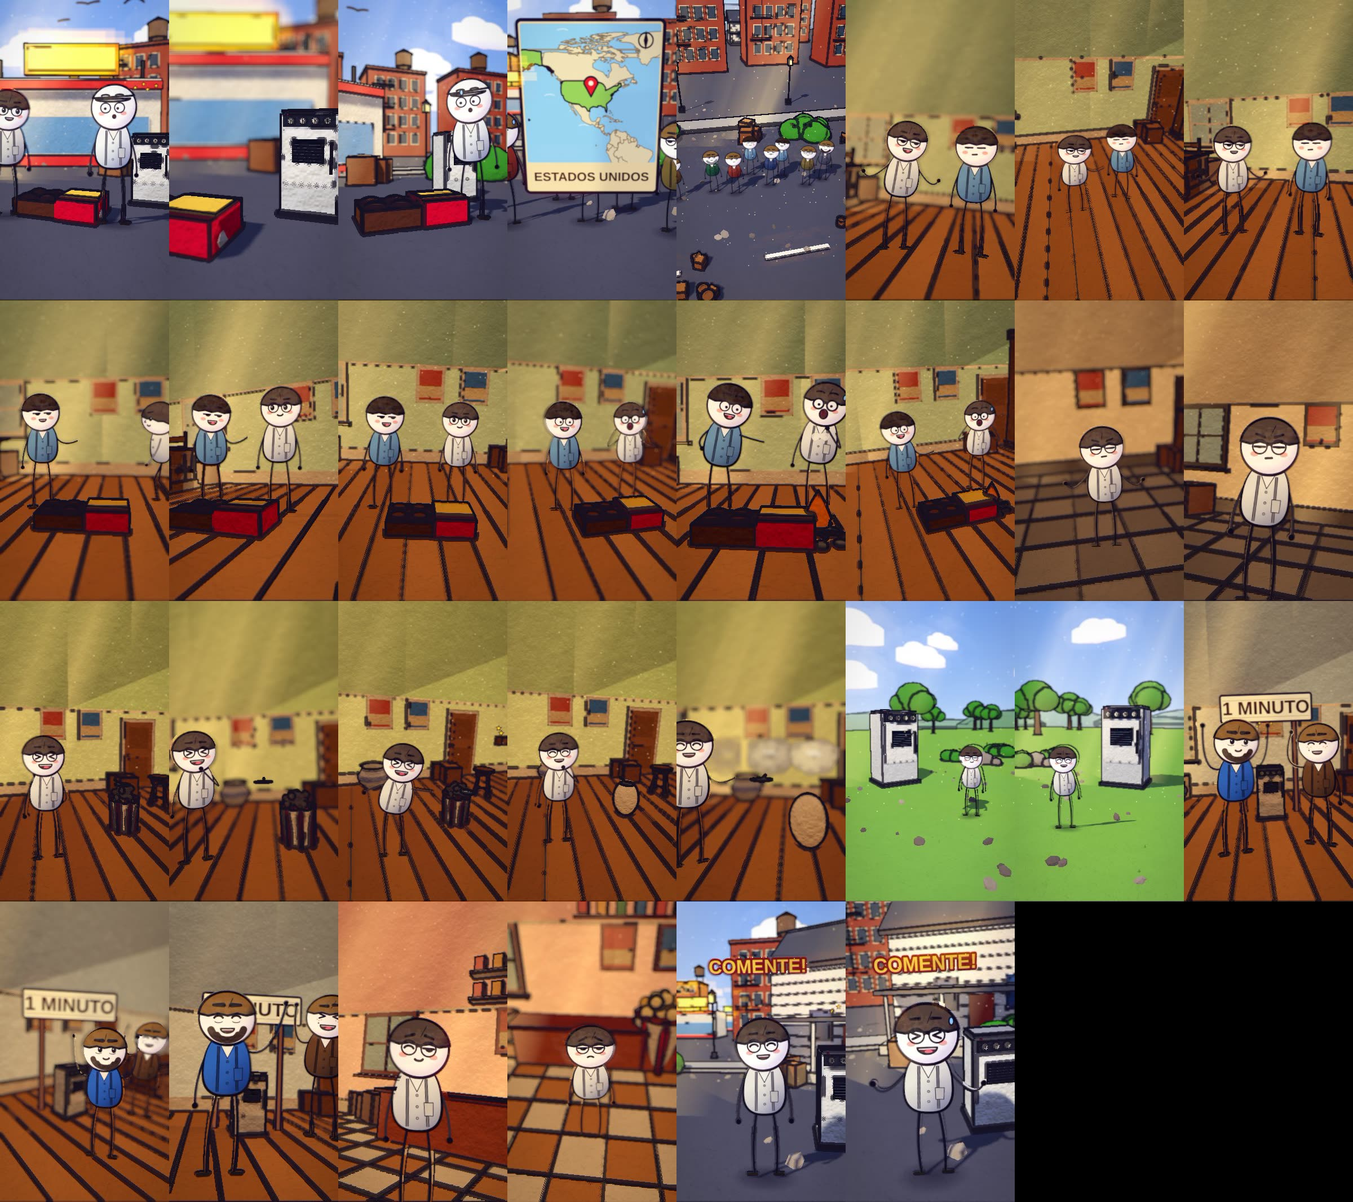
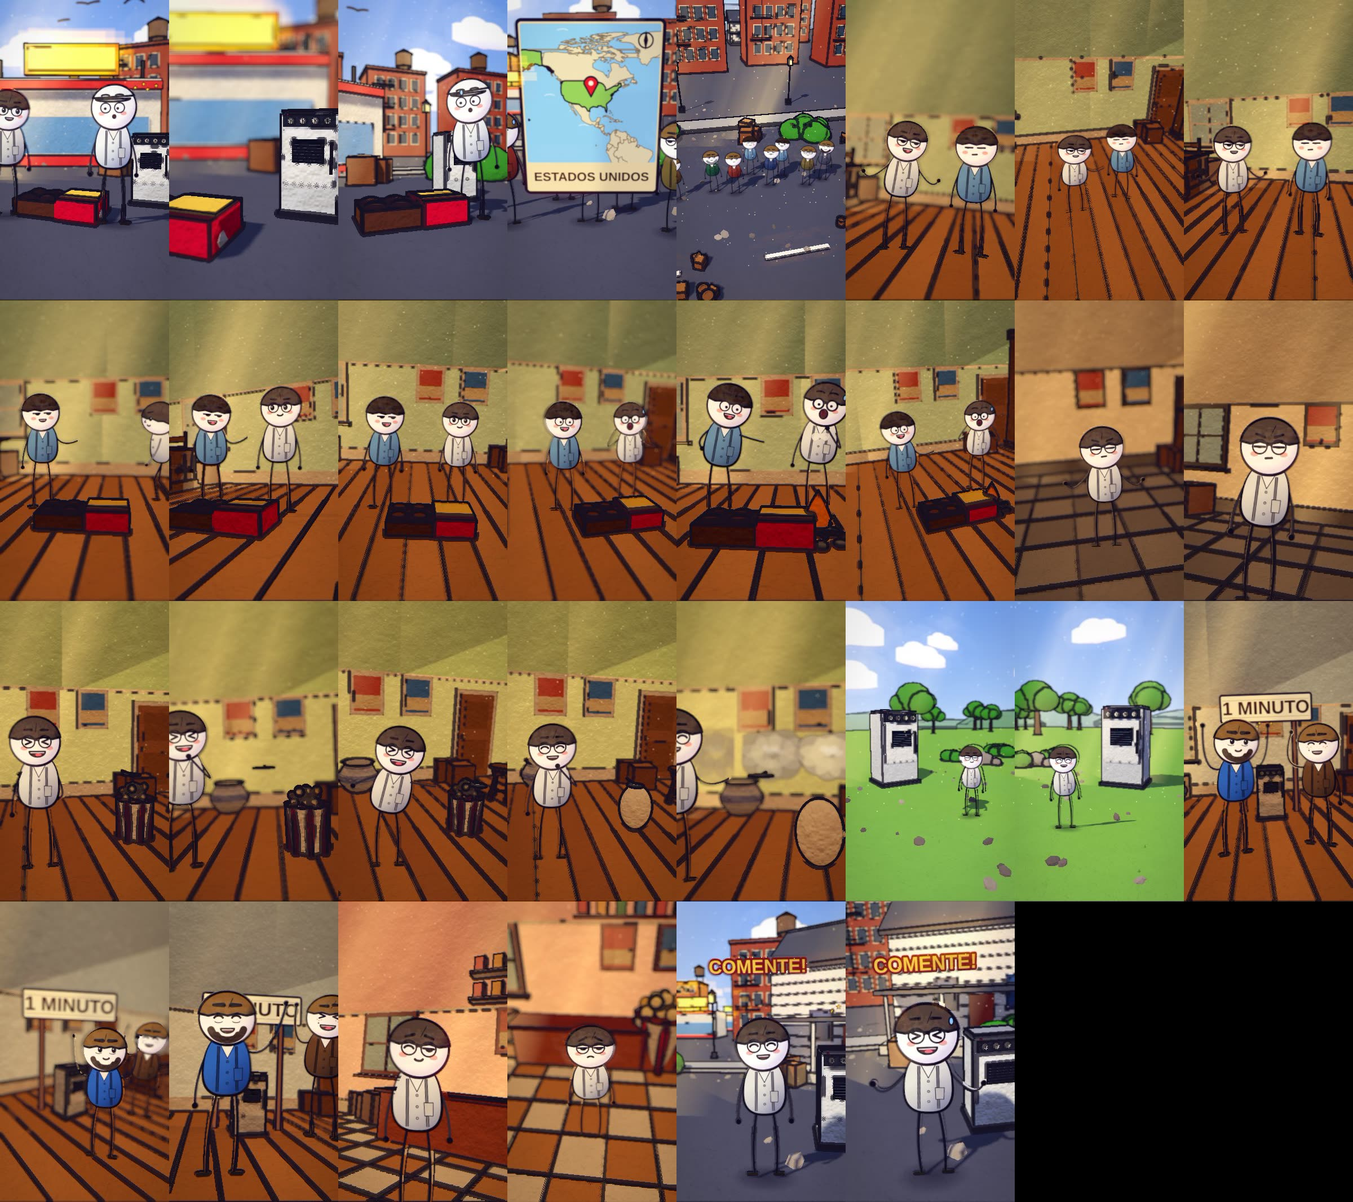
microondas b7: camera mais aberta
Claude-Session: https://claude.ai/code/session_01HE8Dy2XpEMgdYAHCmWZFay

Changed region(s): [[0.0, 0.5263, 0.625, 0.743]]

diff --git a/ferramenta-shorts/web/story.js b/ferramenta-shorts/web/story.js
@@ -40,8 +40,8 @@ const SPEC = {
     S('b3', A[3], A[4] - 1, X_hall, "study", { h: 1.5, d0: 10.0, d1: 9.5, az0: 6, az1: 12, cx: 0.1, cz: 0.5, vary: false, hero: { hero: 'any', frame: 'medium', minH: 0.07, main: 2 }, trans: 'dissolve', actors: [_MA(pp(X_hall, "ENG", 0, -1.0, 1.3, "neutral", { pose: 'talk', inter: { k: 'step', a: Math.round(A[3] + (A[4] - 1 - (A[3])) * 0.12), b: Math.round(A[3] + (A[4] - 1 - (A[3])) * 0.82), dir: 1, n: 2, ph: 0 } }), { gests: [[WS(51) - 8, WS(51) + 46, 'point']] }), { outfit: "SPE", v: 0, at: [X_hall + 3.4, -0.6], move: [[X_hall + 1.0, 1.0], A[3], Math.round(A[3] + Math.min(48, (A[4] - 1 - (A[3])) * 0.3)), 'lin'], arrive: true, walk: "stroll", look: -0.4, expr: "smile" }], props: [{ asset: "kit/room_eua_wood", at: [X_hall, 0], s: 1, drop: false }, { asset: "mk/Bookcase_2", at: [X_hall + 7.4, -3.4], s: 2.4, drop: false }, { asset: "mk/Table_Large", at: [X_hall + -6.6, -1.6], s: 2.2, drop: false }, { asset: "mk/Chair_1", at: [X_hall + -4.4, -1.2], s: 2.2, drop: false }, { asset: "mk/Chest_Wood", at: [X_hall + 6.9, 0.6], s: 2.2, drop: false }, { asset: "kit/chocolate", at: [X_hall + 0.2, 2.2], s: 1.5, fixo: true, drop: false }], fx: [{ k: "dust", a: WS(51), b: WS(51) + 28, at: [X_hall + -0.1, DK + 0.12, 1.7], s: 0.7 }] }),
     S('b4', A[4], A[5] - 1, X_hall, "study", { h: 1.5, d0: 10.0, d1: 9.5, az0: -6, az1: 2, cx: 0.1, cz: 0.5, vary: false, hero: { hero: 'any', frame: 'medium', minH: 0.07, main: 2 }, trans: 'dissolve', actors: [_MA(pp(X_hall, "ENG", 0, -1.0, 1.3, "surprised", { pose: 'talk', inter: { k: 'lean', a: Math.round(A[4] + (A[5] - 1 - (A[4])) * 0.12), b: Math.round(A[4] + (A[5] - 1 - (A[4])) * 0.82), dir: 1, n: 2, ph: 0 } }), { gests: [[WS(67) - 8, WS(67) + 46, 'reach']] }), pp(X_hall, "SPE", 0, 1.0, 1.0, "shock", { pose: 'react', inter: { k: 'recoil', a: Math.round(A[4] + (A[5] - 1 - (A[4])) * 0.2), b: Math.round(A[4] + (A[5] - 1 - (A[4])) * 0.9), dir: -1, n: 2, ph: 3.14 } })], props: [{ asset: "kit/room_eua_wood", at: [X_hall, 0], s: 1, drop: false }, { asset: "mk/Bookcase_2", at: [X_hall + 7.4, -3.4], s: 2.4, drop: false }, { asset: "mk/Table_Large", at: [X_hall + -6.6, -1.6], s: 2.2, drop: false }, { asset: "mk/Chair_1", at: [X_hall + -4.4, -1.2], s: 2.2, drop: false }, { asset: "mk/Chest_Wood", at: [X_hall + 6.9, 0.6], s: 2.2, drop: false }, { asset: "kit/chocolate", at: [X_hall + 0.2, 2.2], s: 1.5, fixo: true, drop: false }, { asset: 'kit/campfire', a: WS(67) - 10, b: A[5] - 1, at: [X_hall + 1.3, 2.2], s: 0.8, drop: false }], fx: [{ k: 'puff', a: WS(67) + 0, b: WS(67) + 24, at: [X_hall + 1.3, DK + 1.6, 2.4], s: 0.7 }, { k: 'puff', a: WS(67) + 10, b: WS(67) + 34, at: [X_hall + 1.3, DK + 1.6, 2.4], s: 0.7 }, { k: 'puff', a: WS(67) + 20, b: WS(67) + 44, at: [X_hall + 1.3, DK + 1.6, 2.4], s: 0.7 }, { k: 'puff', a: WS(67) + 30, b: WS(67) + 54, at: [X_hall + 1.3, DK + 1.6, 2.4], s: 0.7 }] }),
     S('b5', A[5], A[6] - 1, X_hall, "study", { h: 2.4, d0: 6.4, d1: 5.6, az0: 10, az1: 4, vary: false, hero: { hero: 'any', frame: 'medium', minH: 0.07, main: 1 }, trans: 'dissolve', actors: [_MA(pp(X_hall, "SPE", 0, 0.0, 1.3, "suspicious", { pose: 'talk' }), { gests: [[WS(76) - 8, WS(76) + 46, 'point']] })], props: [{ asset: "kit/room_europa_stone", at: [X_hall, 0], s: 1, drop: false }, { asset: "mk/Cabinet", at: [X_hall + -7.2, -3.3], s: 2.3, drop: false }, { asset: "mk/Bed_Twin1", at: [X_hall + 7.0, -2.4], s: 2.1, drop: false }, { asset: "mk/Nightstand_Shelf", at: [X_hall + 4.6, -3.2], s: 2.2, drop: false }, { asset: "mk/Stool", at: [X_hall + -4.8, -2.8], s: 2.2, drop: false }, { asset: "mk/Crate_Metal", at: [X_hall + -7.4, 0.8], s: 2.0, drop: false }] }),
-    S('b6', A[6], A[7] - 1, X_hall, "study", { h: 2.5, d0: 7.2, d1: 6.77, fov: 50.5, az0: -13, az1: -7, cx: 1.2, cz: 0.1, punches: [{ f: WS(95), amt: 0.11, dur: 20 }], vary: false, hero: { hero: 'any', frame: 'medium', minH: 0.07, main: 1 }, trans: 'dissolve', actors: [_MA(pp(X_hall, "SPE", 0, 0.0, 1.3, "laugh", { pose: 'talk' }), { gests: [[WS(86) - 8, Math.max(WS(86) + 14, WS(95) - 5), 'think'], [WS(95) - 8, WS(95) + 46, 'throw']] })], props: [{ asset: "kit/room_verde_wood", at: [X_hall, 0], s: 1, drop: false }, { asset: "mk/Workbench_Drawers", at: [X_hall + 7.0, -3.0], s: 2.2, drop: false }, { asset: "mk/Shelf_Small_Bottles", at: [X_hall + -6.8, -3.4], s: 2.4, drop: false }, { asset: "mk/Stool", at: [X_hall + 4.8, -1.4], s: 2.2, drop: false }, { asset: "mk/Crate_Wooden", at: [X_hall + -7.0, 0.4], s: 2.0, drop: false }, { asset: "mk/Vase_2", at: [X_hall + 0.0, -3.6], s: 2.2, drop: false }, { asset: "kit/popcorn", at: [X_hall + 2.4, 0.2], s: 1.2, fixo: true, drop: false }, { asset: "kit/lupa", a: Math.max(A[6] + 4, WS(86) - 30), b: A[7] - 1, at: [X_hall + 1.55, 2.0], y: DK + 1.9, s: 0.4, drop: false }], fx: [{ k: "stars", a: A[6] + 40, b: A[6] + 66, at: [X_hall, DK + 0.5, 1.2], s: 1.1 }, { k: 'burst', a: A[6] + 60, at: [X_hall + 0.0, DK + 1.8, 3.2], s: 1.2 }, { k: 'burst', a: WS(95) + 2, b: WS(95) + 20, at: [X_hall + 2.3, DK + 1.6, 2.5], s: 1.1 }, { k: 'stars', a: WS(95) + 4, b: WS(95) + 30, at: [X_hall + 2.3, DK + 1.8, 2.5], s: 0.8 }] }),
-    S('b7', A[7], A[8] - 1, X_hall, "study", { h: 2.3, d0: 7.2, d1: 6.77, fov: 50.5, az0: -2, az1: 3, cx: 1.2, cz: 0.1, punches: [{ f: WS(105), amt: 0.16, dur: 20 }], vary: false, hero: { hero: 'any', frame: 'medium', minH: 0.07, main: 1 }, trans: 'dissolve', actors: [_MA(pp(X_hall, "SPE", 0, 0.0, 1.3, "grin", { pose: 'talk' }), { gests: [[WS(99) - 8, Math.max(WS(99) + 14, WS(105) - 5), 'think']] })], props: [{ asset: "kit/room_verde_wood", at: [X_hall, 0], s: 1, drop: false }, { asset: "mk/Workbench_Drawers", at: [X_hall + 7.0, -3.0], s: 2.2, drop: false }, { asset: "mk/Shelf_Small_Bottles", at: [X_hall + -6.8, -3.4], s: 2.4, drop: false }, { asset: "mk/Stool", at: [X_hall + 4.8, -1.4], s: 2.2, drop: false }, { asset: "mk/Crate_Wooden", at: [X_hall + -7.0, 0.4], s: 2.0, drop: false }, { asset: "mk/Vase_2", at: [X_hall + 0.0, -3.6], s: 2.2, drop: false }, { asset: "kit/egg", at: [X_hall + 2.4, 0.2], s: 1.2, fixo: true, drop: false }, { asset: "kit/lupa", a: Math.max(A[7] + 4, WS(99) - 30), b: A[8] - 1, at: [X_hall + 1.55, 2.0], y: DK + 1.9, s: 0.4, drop: false }], fx: [{ k: 'burst', a: A[7] + 50, at: [X_hall + 0.0, DK + 1.8, 3.2], s: 1.2 }, { k: 'burst', a: WS(105), b: WS(105) + 22, at: [X_hall + 0.0, DK + 1.8, 3.0], s: 1.2 }, { k: 'dust', a: WS(105) + 0, b: WS(105) + 30, at: [X_hall + -3, DK + 0.3, -4], s: 1.6 }, { k: 'dust', a: WS(105) + 6, b: WS(105) + 36, at: [X_hall + -1, DK + 0.3, -4], s: 1.6 }, { k: 'dust', a: WS(105) + 12, b: WS(105) + 42, at: [X_hall + 1, DK + 0.3, -4], s: 1.6 }, { k: 'dust', a: WS(105) + 18, b: WS(105) + 48, at: [X_hall + 3, DK + 0.3, -4], s: 1.6 }] }),
+    S('b6', A[6], A[7] - 1, X_hall, "study", { h: 2.2, d0: 8.6, d1: 8.2, az0: -13, az1: -7, cx: 1.2, cz: 0.1, punches: [{ f: WS(95), amt: 0.11, dur: 20 }], vary: false, hero: { hero: 'any', frame: 'medium', minH: 0.07, main: 1 }, trans: 'dissolve', actors: [_MA(pp(X_hall, "SPE", 0, 0.0, 1.3, "laugh", { pose: 'talk' }), { gests: [[WS(86) - 8, Math.max(WS(86) + 14, WS(95) - 5), 'think'], [WS(95) - 8, WS(95) + 46, 'throw']] })], props: [{ asset: "kit/room_verde_wood", at: [X_hall, 0], s: 1, drop: false }, { asset: "mk/Workbench_Drawers", at: [X_hall + 7.0, -3.0], s: 2.2, drop: false }, { asset: "mk/Shelf_Small_Bottles", at: [X_hall + -6.8, -3.4], s: 2.4, drop: false }, { asset: "mk/Stool", at: [X_hall + 4.8, -1.4], s: 2.2, drop: false }, { asset: "mk/Crate_Wooden", at: [X_hall + -7.0, 0.4], s: 2.0, drop: false }, { asset: "mk/Vase_2", at: [X_hall + 0.0, -3.6], s: 2.2, drop: false }, { asset: "kit/popcorn", at: [X_hall + 2.4, 0.2], s: 1.2, fixo: true, drop: false }, { asset: "kit/lupa", a: Math.max(A[6] + 4, WS(86) - 30), b: A[7] - 1, at: [X_hall + 1.55, 2.0], y: DK + 1.9, s: 0.4, drop: false }], fx: [{ k: "stars", a: A[6] + 40, b: A[6] + 66, at: [X_hall, DK + 0.5, 1.2], s: 1.1 }, { k: 'burst', a: A[6] + 60, at: [X_hall + 0.0, DK + 1.8, 3.2], s: 1.2 }, { k: 'burst', a: WS(95) + 2, b: WS(95) + 20, at: [X_hall + 2.3, DK + 1.6, 2.5], s: 1.1 }, { k: 'stars', a: WS(95) + 4, b: WS(95) + 30, at: [X_hall + 2.3, DK + 1.8, 2.5], s: 0.8 }] }),
+    S('b7', A[7], A[8] - 1, X_hall, "study", { h: 2.2, d0: 8.6, d1: 8.2, az0: -2, az1: 3, cx: 1.2, cz: 0.1, punches: [{ f: WS(105), amt: 0.16, dur: 20 }], vary: false, hero: { hero: 'any', frame: 'medium', minH: 0.07, main: 1 }, trans: 'dissolve', actors: [_MA(pp(X_hall, "SPE", 0, 0.0, 1.3, "grin", { pose: 'talk' }), { gests: [[WS(99) - 8, Math.max(WS(99) + 14, WS(105) - 5), 'think']] })], props: [{ asset: "kit/room_verde_wood", at: [X_hall, 0], s: 1, drop: false }, { asset: "mk/Workbench_Drawers", at: [X_hall + 7.0, -3.0], s: 2.2, drop: false }, { asset: "mk/Shelf_Small_Bottles", at: [X_hall + -6.8, -3.4], s: 2.4, drop: false }, { asset: "mk/Stool", at: [X_hall + 4.8, -1.4], s: 2.2, drop: false }, { asset: "mk/Crate_Wooden", at: [X_hall + -7.0, 0.4], s: 2.0, drop: false }, { asset: "mk/Vase_2", at: [X_hall + 0.0, -3.6], s: 2.2, drop: false }, { asset: "kit/egg", at: [X_hall + 2.4, 0.2], s: 1.2, fixo: true, drop: false }, { asset: "kit/lupa", a: Math.max(A[7] + 4, WS(99) - 30), b: A[8] - 1, at: [X_hall + 1.55, 2.0], y: DK + 1.9, s: 0.4, drop: false }], fx: [{ k: 'burst', a: A[7] + 50, at: [X_hall + 0.0, DK + 1.8, 3.2], s: 1.2 }, { k: 'burst', a: WS(105), b: WS(105) + 22, at: [X_hall + 0.0, DK + 1.8, 3.0], s: 1.2 }, { k: 'dust', a: WS(105) + 0, b: WS(105) + 30, at: [X_hall + -3, DK + 0.3, -4], s: 1.6 }, { k: 'dust', a: WS(105) + 6, b: WS(105) + 36, at: [X_hall + -1, DK + 0.3, -4], s: 1.6 }, { k: 'dust', a: WS(105) + 12, b: WS(105) + 42, at: [X_hall + 1, DK + 0.3, -4], s: 1.6 }, { k: 'dust', a: WS(105) + 18, b: WS(105) + 48, at: [X_hall + 3, DK + 0.3, -4], s: 1.6 }] }),
     { ...S('b8', A[8], A[9] - 1, X_loc_campo, "day", { h: 2.4, d0: 17.5, d1: 16.7, el: 6, fov: 46, az0: -38, az1: 32, cx: 0.0, cz: -3.6, hero: { hero: 'none', wide: true }, vary: false, nocut: true, trans: 'dissolve', actors: [pp(X_loc_campo, "SPE", 0, 0.0, -0.4, "smile")], props: [{ asset: "kit/radarange", at: [X_loc_campo + 0.0, -8.0], s: 2.6, fixo: true, drop: false }], fx: [{ k: "contador", a: WS(128, -3), b: A[9] - 1, de: 0, para: 300, un: " kg", titulo: "PESO DO PRIMEIRO FORNO", dur: 39, dec: 0, up: 0.6 }, { k: 'birds', a: A[8], b: A[9] - 1, at: [X_loc_campo, DK + 7.5, -30], n: 6, dir: 1, off: 8 }] }), nocut: true },
     S('b9', A[9], A[10] - 1, X_hall, "study", { h: 2.3, d0: 7.3, d1: 6.86, fov: 67.6, az0: -10, az1: -5, cx: 0.0, cz: -0.6, hero: { hero: 'any', frame: 'medium', minH: 0.07, main: 2 }, trans: 'dissolve', actors: [pp(X_hall, "POV", 0, -1.0, 1.3, "smile", { pose: 'cheer', inter: { k: 'hop', a: Math.round(A[9] + (A[10] - 1 - (A[9])) * 0.12), b: Math.round(A[9] + (A[10] - 1 - (A[9])) * 0.82), dir: 1, n: 2, ph: 0 } }), pp(X_hall, "POV", 1, 1.0, 1.0, "grin", { pose: 'cheer', inter: { k: 'hop', a: Math.round(A[9] + (A[10] - 1 - (A[9])) * 0.2), b: Math.round(A[9] + (A[10] - 1 - (A[9])) * 0.9), dir: -1, n: 2, ph: 3.14 } })], props: [{ asset: "kit/room_azul_wood", at: [X_hall, 0], s: 1, drop: false }, { asset: "mk/Shelf_Arch", at: [X_hall + 6.8, -3.4], s: 2.4, drop: false }, { asset: "mk/Bench", at: [X_hall + -6.4, -2.0], s: 2.2, drop: false }, { asset: "mk/Table_Large", at: [X_hall + 6.6, -0.8], s: 2.0, drop: false }, { asset: "mk/Vase_4", at: [X_hall + -7.6, 0.6], s: 2.2, drop: false }, { asset: "mk/Vase_2", at: [X_hall + -4.2, -3.0], s: 2.2, drop: false }, { asset: "kit/radarange", at: [X_hall + 0.0, -1.2], s: 1.0, fixo: true, drop: false }], fx: [{ k: 'stars', a: A[9] + 6, b: A[9] + 40, at: [X_hall + 0.0, DK + 1.6, -0.7], s: 0.8 }, { k: 'text', a: A[9], b: A[10] - 1, at: [X_hall + 0.0, DK, -1.3], text: "1 MINUTO", s: 2.625, col: '#3a2416', size: 120, board: true }, { k: "stars", a: A[9] + 30, b: A[9] + 56, at: [X_hall, DK + 0.5, 1.2], s: 1.1 }, { k: 'burst', a: A[9] + 70, at: [X_hall + -1.0, DK + 1.8, 3.2], s: 1.2 }] }),
     S('b10', A[10], A[11] - 1, X_hall, "study", { h: 2.4, d0: 6.4, d1: 5.6, az0: 6, az1: 12, hero: { hero: 'any', frame: 'medium', minH: 0.07, main: 1 }, trans: 'dissolve', actors: [pp(X_hall, "SPE", 0, 0.0, 1.3, ((f) => f >= WS(149) - 4 ? "sad" : "smug"), { pose: 'talk' })], props: [{ asset: "kit/room_rosa_shop", at: [X_hall, 0], s: 1, drop: false }, { asset: "kit/chocolate", at: [X_hall + -1.45, -2.3], s: 1.8, drop: false }, { asset: "kit/popcorn", at: [X_hall + 1.95, -2.3], s: 2.2, drop: false }], fx: [{ k: "puff", a: WS(149), b: WS(149) + 28, at: [X_hall + 0.9, DK + 0.12, 1.7], s: 0.7 }] }),

diff --git a/ferramenta-shorts/stories/microondas1945/spec.js b/ferramenta-shorts/stories/microondas1945/spec.js
@@ -20,7 +20,7 @@ const SPEC = {
     S('b4', A[4], A[5] - 1, X_hall, "study", { h: 1.5, d0: 10.0, d1: 9.5, az0: -6, az1: 2, cx: 0.1, cz: 0.5, vary: false, hero: { hero: 'any', frame: 'medium', minH: 0.07, main: 2 }, trans: 'dissolve', actors: [_MA(pp(X_hall, "ENG", 0, -1.0, 1.3, "surprised", { pose: 'talk', inter: { k: 'lean', a: Math.round(A[4] + (A[5] - 1 - (A[4])) * 0.12), b: Math.round(A[4] + (A[5] - 1 - (A[4])) * 0.82), dir: 1, n: 2, ph: 0 } }), { gests: [[WS(67) - 8, WS(67) + 46, 'reach']] }), pp(X_hall, "SPE", 0, 1.0, 1.0, "shock", { pose: 'react', inter: { k: 'recoil', a: Math.round(A[4] + (A[5] - 1 - (A[4])) * 0.2), b: Math.round(A[4] + (A[5] - 1 - (A[4])) * 0.9), dir: -1, n: 2, ph: 3.14 } })], props: [{ asset: "kit/room_eua_wood", at: [X_hall, 0], s: 1, drop: false }, { asset: "mk/Bookcase_2", at: [X_hall + 7.4, -3.4], s: 2.4, drop: false }, { asset: "mk/Table_Large", at: [X_hall + -6.6, -1.6], s: 2.2, drop: false }, { asset: "mk/Chair_1", at: [X_hall + -4.4, -1.2], s: 2.2, drop: false }, { asset: "mk/Chest_Wood", at: [X_hall + 6.9, 0.6], s: 2.2, drop: false }, { asset: "kit/chocolate", at: [X_hall + 0.2, 2.2], s: 1.5, fixo: true, drop: false }, { asset: 'kit/campfire', a: WS(67) - 10, b: A[5] - 1, at: [X_hall + 1.3, 2.2], s: 0.8, drop: false }], fx: [{ k: 'puff', a: WS(67) + 0, b: WS(67) + 24, at: [X_hall + 1.3, DK + 1.6, 2.4], s: 0.7 }, { k: 'puff', a: WS(67) + 10, b: WS(67) + 34, at: [X_hall + 1.3, DK + 1.6, 2.4], s: 0.7 }, { k: 'puff', a: WS(67) + 20, b: WS(67) + 44, at: [X_hall + 1.3, DK + 1.6, 2.4], s: 0.7 }, { k: 'puff', a: WS(67) + 30, b: WS(67) + 54, at: [X_hall + 1.3, DK + 1.6, 2.4], s: 0.7 }] }),
     S('b5', A[5], A[6] - 1, X_hall, "study", { h: 2.4, d0: 6.4, d1: 5.6, az0: 10, az1: 4, vary: false, hero: { hero: 'any', frame: 'medium', minH: 0.07, main: 1 }, trans: 'dissolve', actors: [_MA(pp(X_hall, "SPE", 0, 0.0, 1.3, "suspicious", { pose: 'talk' }), { gests: [[WS(76) - 8, WS(76) + 46, 'point']] })], props: [{ asset: "kit/room_europa_stone", at: [X_hall, 0], s: 1, drop: false }, { asset: "mk/Cabinet", at: [X_hall + -7.2, -3.3], s: 2.3, drop: false }, { asset: "mk/Bed_Twin1", at: [X_hall + 7.0, -2.4], s: 2.1, drop: false }, { asset: "mk/Nightstand_Shelf", at: [X_hall + 4.6, -3.2], s: 2.2, drop: false }, { asset: "mk/Stool", at: [X_hall + -4.8, -2.8], s: 2.2, drop: false }, { asset: "mk/Crate_Metal", at: [X_hall + -7.4, 0.8], s: 2.0, drop: false }] }),
     S('b6', A[6], A[7] - 1, X_hall, "study", { h: 2.2, d0: 8.6, d1: 8.2, az0: -13, az1: -7, cx: 1.2, cz: 0.1, punches: [{ f: WS(95), amt: 0.11, dur: 20 }], vary: false, hero: { hero: 'any', frame: 'medium', minH: 0.07, main: 1 }, trans: 'dissolve', actors: [_MA(pp(X_hall, "SPE", 0, 0.0, 1.3, "laugh", { pose: 'talk' }), { gests: [[WS(86) - 8, Math.max(WS(86) + 14, WS(95) - 5), 'think'], [WS(95) - 8, WS(95) + 46, 'throw']] })], props: [{ asset: "kit/room_verde_wood", at: [X_hall, 0], s: 1, drop: false }, { asset: "mk/Workbench_Drawers", at: [X_hall + 7.0, -3.0], s: 2.2, drop: false }, { asset: "mk/Shelf_Small_Bottles", at: [X_hall + -6.8, -3.4], s: 2.4, drop: false }, { asset: "mk/Stool", at: [X_hall + 4.8, -1.4], s: 2.2, drop: false }, { asset: "mk/Crate_Wooden", at: [X_hall + -7.0, 0.4], s: 2.0, drop: false }, { asset: "mk/Vase_2", at: [X_hall + 0.0, -3.6], s: 2.2, drop: false }, { asset: "kit/popcorn", at: [X_hall + 2.4, 0.2], s: 1.2, fixo: true, drop: false }, { asset: "kit/lupa", a: Math.max(A[6] + 4, WS(86) - 30), b: A[7] - 1, at: [X_hall + 1.55, 2.0], y: DK + 1.9, s: 0.4, drop: false }], fx: [{ k: "stars", a: A[6] + 40, b: A[6] + 66, at: [X_hall, DK + 0.5, 1.2], s: 1.1 }, { k: 'burst', a: A[6] + 60, at: [X_hall + 0.0, DK + 1.8, 3.2], s: 1.2 }, { k: 'burst', a: WS(95) + 2, b: WS(95) + 20, at: [X_hall + 2.3, DK + 1.6, 2.5], s: 1.1 }, { k: 'stars', a: WS(95) + 4, b: WS(95) + 30, at: [X_hall + 2.3, DK + 1.8, 2.5], s: 0.8 }] }),
-    S('b7', A[7], A[8] - 1, X_hall, "study", { h: 2.2, d0: 8.6, d1: 8.2, az0: -2, az1: 3, cx: 1.2, cz: 0.1, punches: [{ f: WS(105), amt: 0.16, dur: 20 }], vary: false, hero: { hero: 'any', frame: 'medium', minH: 0.07, main: 1 }, trans: 'dissolve', actors: [_MA(pp(X_hall, "SPE", 0, 0.0, 1.3, "grin", { pose: 'talk' }), { gests: [[WS(99) - 8, Math.max(WS(99) + 14, WS(105) - 5), 'think']] })], props: [{ asset: "kit/room_verde_wood", at: [X_hall, 0], s: 1, drop: false }, { asset: "mk/Workbench_Drawers", at: [X_hall + 7.0, -3.0], s: 2.2, drop: false }, { asset: "mk/Shelf_Small_Bottles", at: [X_hall + -6.8, -3.4], s: 2.4, drop: false }, { asset: "mk/Stool", at: [X_hall + 4.8, -1.4], s: 2.2, drop: false }, { asset: "mk/Crate_Wooden", at: [X_hall + -7.0, 0.4], s: 2.0, drop: false }, { asset: "mk/Vase_2", at: [X_hall + 0.0, -3.6], s: 2.2, drop: false }, { asset: "kit/egg", at: [X_hall + 2.4, 0.2], s: 1.2, fixo: true, drop: false }, { asset: "kit/lupa", a: Math.max(A[7] + 4, WS(99) - 30), b: A[8] - 1, at: [X_hall + 1.55, 2.0], y: DK + 1.9, s: 0.4, drop: false }], fx: [{ k: 'burst', a: A[7] + 50, at: [X_hall + 0.0, DK + 1.8, 3.2], s: 1.2 }, { k: 'burst', a: WS(105), b: WS(105) + 22, at: [X_hall + 0.0, DK + 1.8, 3.0], s: 1.2 }, { k: 'dust', a: WS(105) + 0, b: WS(105) + 30, at: [X_hall + -3, DK + 0.3, -4], s: 1.6 }, { k: 'dust', a: WS(105) + 6, b: WS(105) + 36, at: [X_hall + -1, DK + 0.3, -4], s: 1.6 }, { k: 'dust', a: WS(105) + 12, b: WS(105) + 42, at: [X_hall + 1, DK + 0.3, -4], s: 1.6 }, { k: 'dust', a: WS(105) + 18, b: WS(105) + 48, at: [X_hall + 3, DK + 0.3, -4], s: 1.6 }] }),
+    S('b7', A[7], A[8] - 1, X_hall, "study", { h: 2.4, d0: 10.5, d1: 10.0, az0: -2, az1: 3, cx: 1.0, cz: 0.1, punches: [{ f: WS(105), amt: 0.16, dur: 20 }], vary: false, hero: { hero: 'any', frame: 'medium', minH: 0.07, main: 1 }, trans: 'dissolve', actors: [_MA(pp(X_hall, "SPE", 0, 0.0, 1.3, "grin", { pose: 'talk' }), { gests: [[WS(99) - 8, Math.max(WS(99) + 14, WS(105) - 5), 'think']] })], props: [{ asset: "kit/room_verde_wood", at: [X_hall, 0], s: 1, drop: false }, { asset: "mk/Workbench_Drawers", at: [X_hall + 7.0, -3.0], s: 2.2, drop: false }, { asset: "mk/Shelf_Small_Bottles", at: [X_hall + -6.8, -3.4], s: 2.4, drop: false }, { asset: "mk/Stool", at: [X_hall + 4.8, -1.4], s: 2.2, drop: false }, { asset: "mk/Crate_Wooden", at: [X_hall + -7.0, 0.4], s: 2.0, drop: false }, { asset: "mk/Vase_2", at: [X_hall + 0.0, -3.6], s: 2.2, drop: false }, { asset: "kit/egg", at: [X_hall + 2.4, 0.2], s: 1.2, fixo: true, drop: false }, { asset: "kit/lupa", a: Math.max(A[7] + 4, WS(99) - 30), b: A[8] - 1, at: [X_hall + 1.55, 2.0], y: DK + 1.9, s: 0.4, drop: false }], fx: [{ k: 'burst', a: A[7] + 50, at: [X_hall + 0.0, DK + 1.8, 3.2], s: 1.2 }, { k: 'burst', a: WS(105), b: WS(105) + 22, at: [X_hall + 0.0, DK + 1.8, 3.0], s: 1.2 }, { k: 'dust', a: WS(105) + 0, b: WS(105) + 30, at: [X_hall + -3, DK + 0.3, -4], s: 1.6 }, { k: 'dust', a: WS(105) + 6, b: WS(105) + 36, at: [X_hall + -1, DK + 0.3, -4], s: 1.6 }, { k: 'dust', a: WS(105) + 12, b: WS(105) + 42, at: [X_hall + 1, DK + 0.3, -4], s: 1.6 }, { k: 'dust', a: WS(105) + 18, b: WS(105) + 48, at: [X_hall + 3, DK + 0.3, -4], s: 1.6 }] }),
     { ...S('b8', A[8], A[9] - 1, X_loc_campo, "day", { h: 2.4, d0: 17.5, d1: 16.7, el: 6, fov: 46, az0: -38, az1: 32, cx: 0.0, cz: -3.6, hero: { hero: 'none', wide: true }, vary: false, nocut: true, trans: 'dissolve', actors: [pp(X_loc_campo, "SPE", 0, 0.0, -0.4, "smile")], props: [{ asset: "kit/radarange", at: [X_loc_campo + 0.0, -8.0], s: 2.6, fixo: true, drop: false }], fx: [{ k: "contador", a: WS(128, -3), b: A[9] - 1, de: 0, para: 300, un: " kg", titulo: "PESO DO PRIMEIRO FORNO", dur: 39, dec: 0, up: 0.6 }, { k: 'birds', a: A[8], b: A[9] - 1, at: [X_loc_campo, DK + 7.5, -30], n: 6, dir: 1, off: 8 }] }), nocut: true },
     S('b9', A[9], A[10] - 1, X_hall, "study", { h: 2.3, d0: 7.3, d1: 6.86, fov: 67.6, az0: -10, az1: -5, cx: 0.0, cz: -0.6, hero: { hero: 'any', frame: 'medium', minH: 0.07, main: 2 }, trans: 'dissolve', actors: [pp(X_hall, "POV", 0, -1.0, 1.3, "smile", { pose: 'cheer', inter: { k: 'hop', a: Math.round(A[9] + (A[10] - 1 - (A[9])) * 0.12), b: Math.round(A[9] + (A[10] - 1 - (A[9])) * 0.82), dir: 1, n: 2, ph: 0 } }), pp(X_hall, "POV", 1, 1.0, 1.0, "grin", { pose: 'cheer', inter: { k: 'hop', a: Math.round(A[9] + (A[10] - 1 - (A[9])) * 0.2), b: Math.round(A[9] + (A[10] - 1 - (A[9])) * 0.9), dir: -1, n: 2, ph: 3.14 } })], props: [{ asset: "kit/room_azul_wood", at: [X_hall, 0], s: 1, drop: false }, { asset: "mk/Shelf_Arch", at: [X_hall + 6.8, -3.4], s: 2.4, drop: false }, { asset: "mk/Bench", at: [X_hall + -6.4, -2.0], s: 2.2, drop: false }, { asset: "mk/Table_Large", at: [X_hall + 6.6, -0.8], s: 2.0, drop: false }, { asset: "mk/Vase_4", at: [X_hall + -7.6, 0.6], s: 2.2, drop: false }, { asset: "mk/Vase_2", at: [X_hall + -4.2, -3.0], s: 2.2, drop: false }, { asset: "kit/radarange", at: [X_hall + 0.0, -1.2], s: 1.0, fixo: true, drop: false }], fx: [{ k: 'stars', a: A[9] + 6, b: A[9] + 40, at: [X_hall + 0.0, DK + 1.6, -0.7], s: 0.8 }, { k: 'text', a: A[9], b: A[10] - 1, at: [X_hall + 0.0, DK, -1.3], text: "1 MINUTO", s: 2.625, col: '#3a2416', size: 120, board: true }, { k: "stars", a: A[9] + 30, b: A[9] + 56, at: [X_hall, DK + 0.5, 1.2], s: 1.1 }, { k: 'burst', a: A[9] + 70, at: [X_hall + -1.0, DK + 1.8, 3.2], s: 1.2 }] }),
     S('b10', A[10], A[11] - 1, X_hall, "study", { h: 2.4, d0: 6.4, d1: 5.6, az0: 6, az1: 12, hero: { hero: 'any', frame: 'medium', minH: 0.07, main: 1 }, trans: 'dissolve', actors: [pp(X_hall, "SPE", 0, 0.0, 1.3, ((f) => f >= WS(149) - 4 ? "sad" : "smug"), { pose: 'talk' })], props: [{ asset: "kit/room_rosa_shop", at: [X_hall, 0], s: 1, drop: false }, { asset: "kit/chocolate", at: [X_hall + -1.45, -2.3], s: 1.8, drop: false }, { asset: "kit/popcorn", at: [X_hall + 1.95, -2.3], s: 2.2, drop: false }], fx: [{ k: "puff", a: WS(149), b: WS(149) + 28, at: [X_hall + 0.9, DK + 0.12, 1.7], s: 0.7 }] }),

diff --git a/ferramenta-shorts/stories/microondas1945/autocorrecoes.md b/ferramenta-shorts/stories/microondas1945/autocorrecoes.md
@@ -125,3 +125,6 @@
 ## 25/11 16:30 autocorrecao de visibilidade
 - b6: personagem CORTADO na borda do quadro (boneco grande saindo da tela) -> camera mais afastada para o personagem caber inteiro
 - b7: personagem CORTADO na borda do quadro (boneco grande saindo da tela) -> camera mais afastada para o personagem caber inteiro
+
+## 25/11 16:33 autocorrecao de visibilidade
+- b7: quadro_manual (o roteiro fixou o quadro), personagem CORTADO na borda do quadro (boneco grande saindo da tela) -> fica para o olho

diff --git a/ferramenta-shorts/stories/microondas1945/cronograma.md b/ferramenta-shorts/stories/microondas1945/cronograma.md
@@ -1,6 +1,6 @@
 # CRONOGRAMA - Curiosidade e Ciência EP 05 - O Micro-ondas e o Chocolate
 
-Gerado em 25/11 16:31 | 12 cenas | metricas: acoes_encenadas 100%, acoes_chave_com_efeito 100%, explicacoes_cobertas 100%, cenario_e_epoca_ok 100%
+Gerado em 25/11 16:33 | 12 cenas | metricas: acoes_encenadas 100%, acoes_chave_com_efeito 100%, explicacoes_cobertas 100%, cenario_e_epoca_ok 100%
 
 ## 1. Plano de cenas (o que cada frase vai mostrar)
 

diff --git a/ferramenta-shorts/stories/microondas1945/lista_revisao.md b/ferramenta-shorts/stories/microondas1945/lista_revisao.md
@@ -3,7 +3,7 @@
 Regra: olhar o storyboard/frase_a_frase INTEIRO e completar esta lista toda ANTES de devolver. Quem refaz corrige todos os itens de uma vez.
 
 ## Achados automaticos (ferramenta)
-- nenhum
+1. b7~1: personagem CORTADO na borda do quadro (boneco grande saindo da tela)
 
 ## Achados do olho (uma linha por frase: OK ou DEFEITO + o que fazer)
 - f0 "Uma barra de chocolate derretida no bolso inventou o forno d": 
